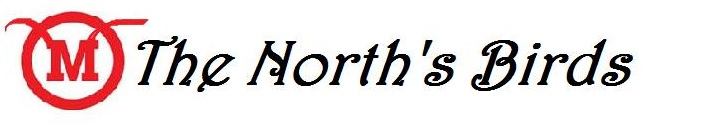
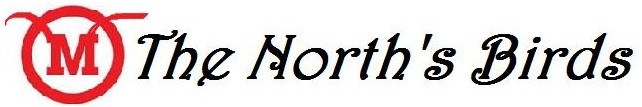
Criação do CSS e animação

Changed region(s): [[0.0, 0.028, 0.9969, 0.9813]]

diff --git a/css/estilo.css b/css/estilo.css
@@ -1,71 +1,49 @@
 body{
-	font-family: "Britanic Bold";
-	font-size:14pt;
-	margin:0px;
-	background-color:#6B0000;
-	color:#000;
-	clear:left;
+    margin:0px;
+    background-color:#FCFCFA;
 }
 
 header{
-	background-color:#fff;
-	height:2000px;
-	
-	margin-top:0px;
+    background-color:#3B5998;
+    height:120px;
+    margin-top:-68px;
+    color:white;
+}   
+
+#logo{
+    height:100px;
+    margin-top:-300px;
+    margin-left:350px;
 }
 
+h1{
+    font-family:"arial";
+    font-size:100px;
+    margin-left: 180px;
+}
 
+div{
+    margin-top:-120px;
+    float:right;
+    margin-left:200px;
+}
 
+#birds{
+   height:500px; 
+   margin-left:120px;
+   margin-top:70px;
+   width:1000px;
+}
 
 section{
-	background-color:#fff;
-	text-align:center;
-	border-radius:100px 100px 100px 100px;
-	margin-left:auto;
-	margin-right:auto;
-	
+    margin-left:1300px;
+    margin-top:-450px;
 }
 
-#form{
-	text-align: center;
-	padding: 20px 20px 10px 50px;
-	background-image:url("img/seg2.jpg");
-	background-attachment:fixed;
-	margin: 0px 15% 0px 15%;
-	
-}
-
-#form h3{
-	text-align:center;
-}
-
-
-#relogio{
-	width:100px;
-	height:30px;
-	color:#000;
-	text-align: center;
-	font-size:20pt;
-	float:clear;
-	padding-top:20px;
-	
-}
-
-section p{
-	text-align: right;
-	
-}
-			
-#formulario{
-	font-size:18pt;
-	background-image:url("img/form.jpg");
-	height:200px;
-}
 footer{
-	background-color:#202020;
-	color:#fff;
-	padding:10px;
-	font-size:12px;
-	text-align:center;
-	clear:left;
+    background-color:#202020;
+    color:white;
+    height:35px;
+    font-size:20px;
+    text-align:center;         
 }

diff --git a/index.php b/index.php
@@ -1,4 +1,3 @@
-
 <!DOCTYPE html>
 <html lang="pt-br">
 	<head>
@@ -8,7 +7,8 @@
 		<meta name="descripition" content="Formulário"/>
 		<meta name="author" content="Bianca, Carol, Marcelo, Victor"/>
 		<link rel="stylesheet" type="text/css" href="css/estilo.css"/>
-			<script type="text/javascript">
+			
+                    <script type="text/javascript">
 			var tempoP=0;
 			
 			setInterval(trocaHora,1000);
@@ -28,22 +28,26 @@
 				document.getElementById("relogio").innerHTML = texto;
 			}
 			
-		</script>
+		    </script>
 	</head>
 	
 	<body>
 		
 		<header id="formulario">
-			<img alt="logo" src="imagensSite/mackenzie.jpg"/>
-			
-			
-			<input type="email" placeholder="E-mail" name="campoemail"/> 
-			<input type="password" placeholder="Senha" name="camposenha"/>
-			<input type="submit" value="Entrar"/>
-			<br/>
+                    <h1> The North's Birds </h1>
+                    
+                    <div>
+                        <input type="email" placeholder="E-mail" name="campoemail"/> 
+		        <input type="password" placeholder="Senha" name="camposenha"/>
+		        <input type="submit" value="Entrar"/>
+                    <div>
+                        <br/>
 			<br/>
 		</header>
-		<p id="relogio">00:00</p>
+            
+                <img alt="birds" src="imagensSite/birds.gif" id='birds'/>
+            
+		
 		<section id="form">
 			
 			<form>
@@ -160,8 +164,10 @@
 			
 		</section>
 		
-		<br/><footer>
-		<small>Copyright &copy; MackOnline 2014</small>
+		<br/>
+                
+                <footer>
+		    <p>Copyright &copy; MackOnline 2014</p>
 		</footer>
 	
 	</body>
